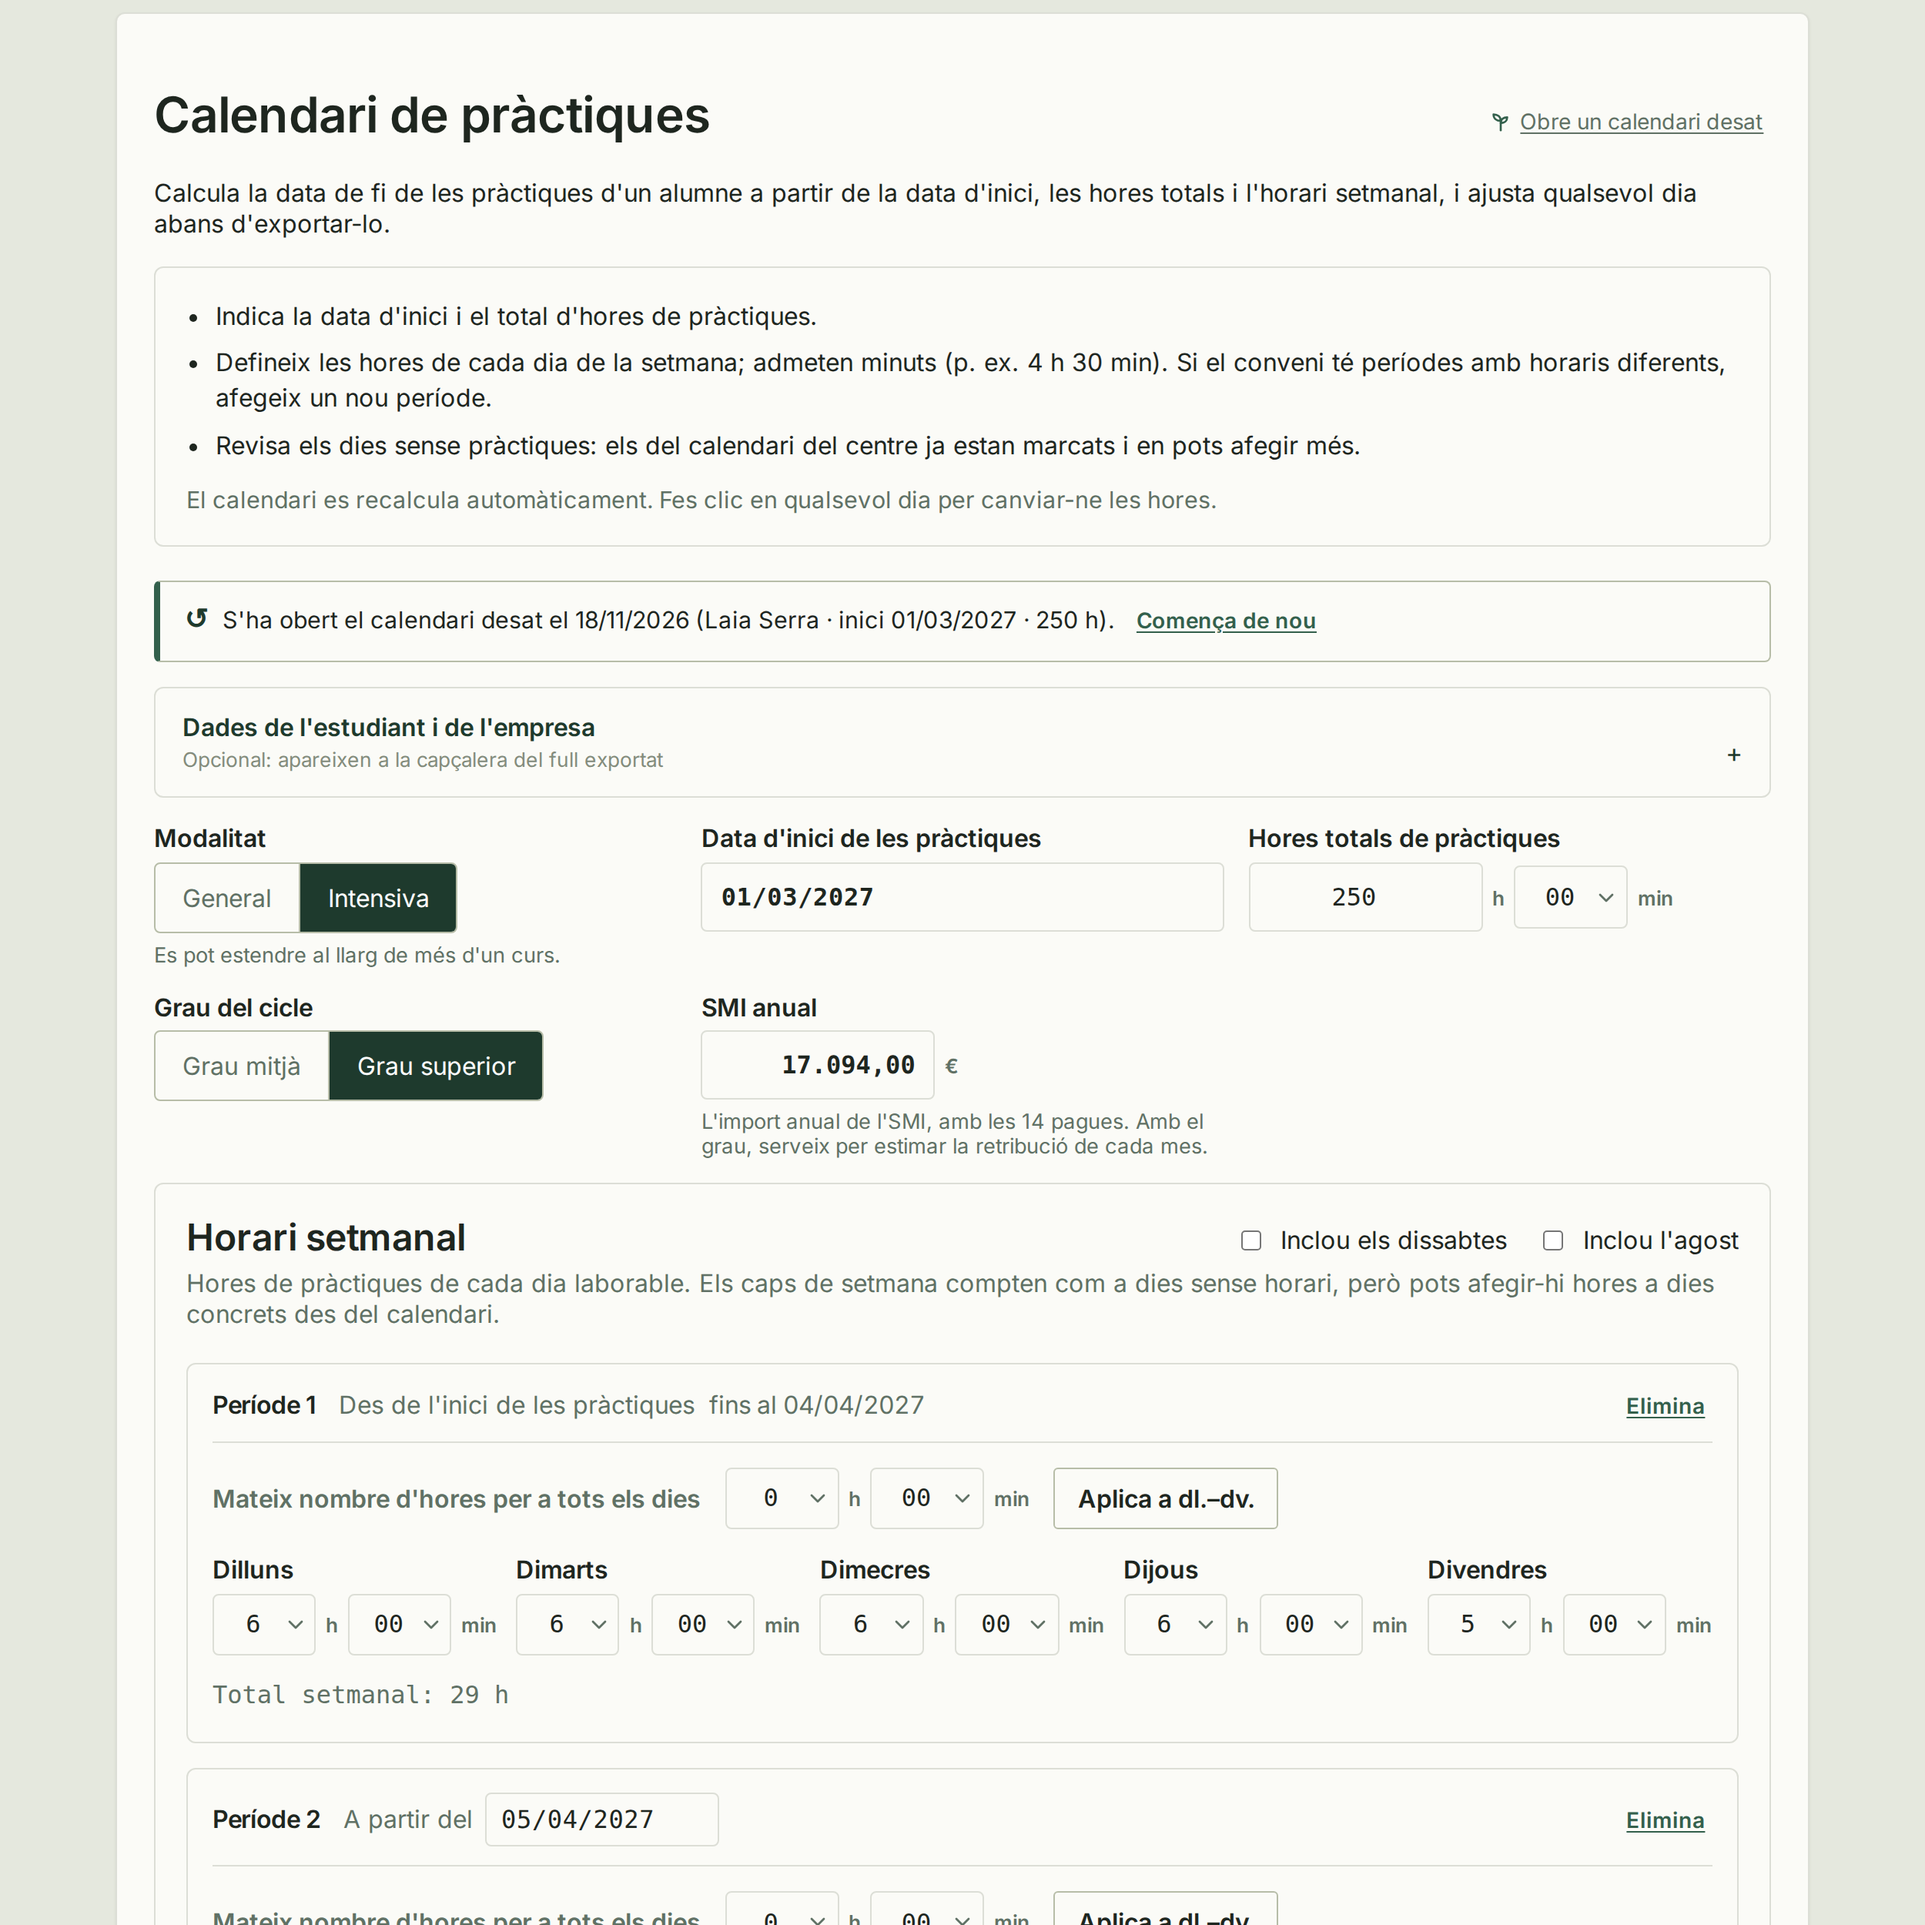
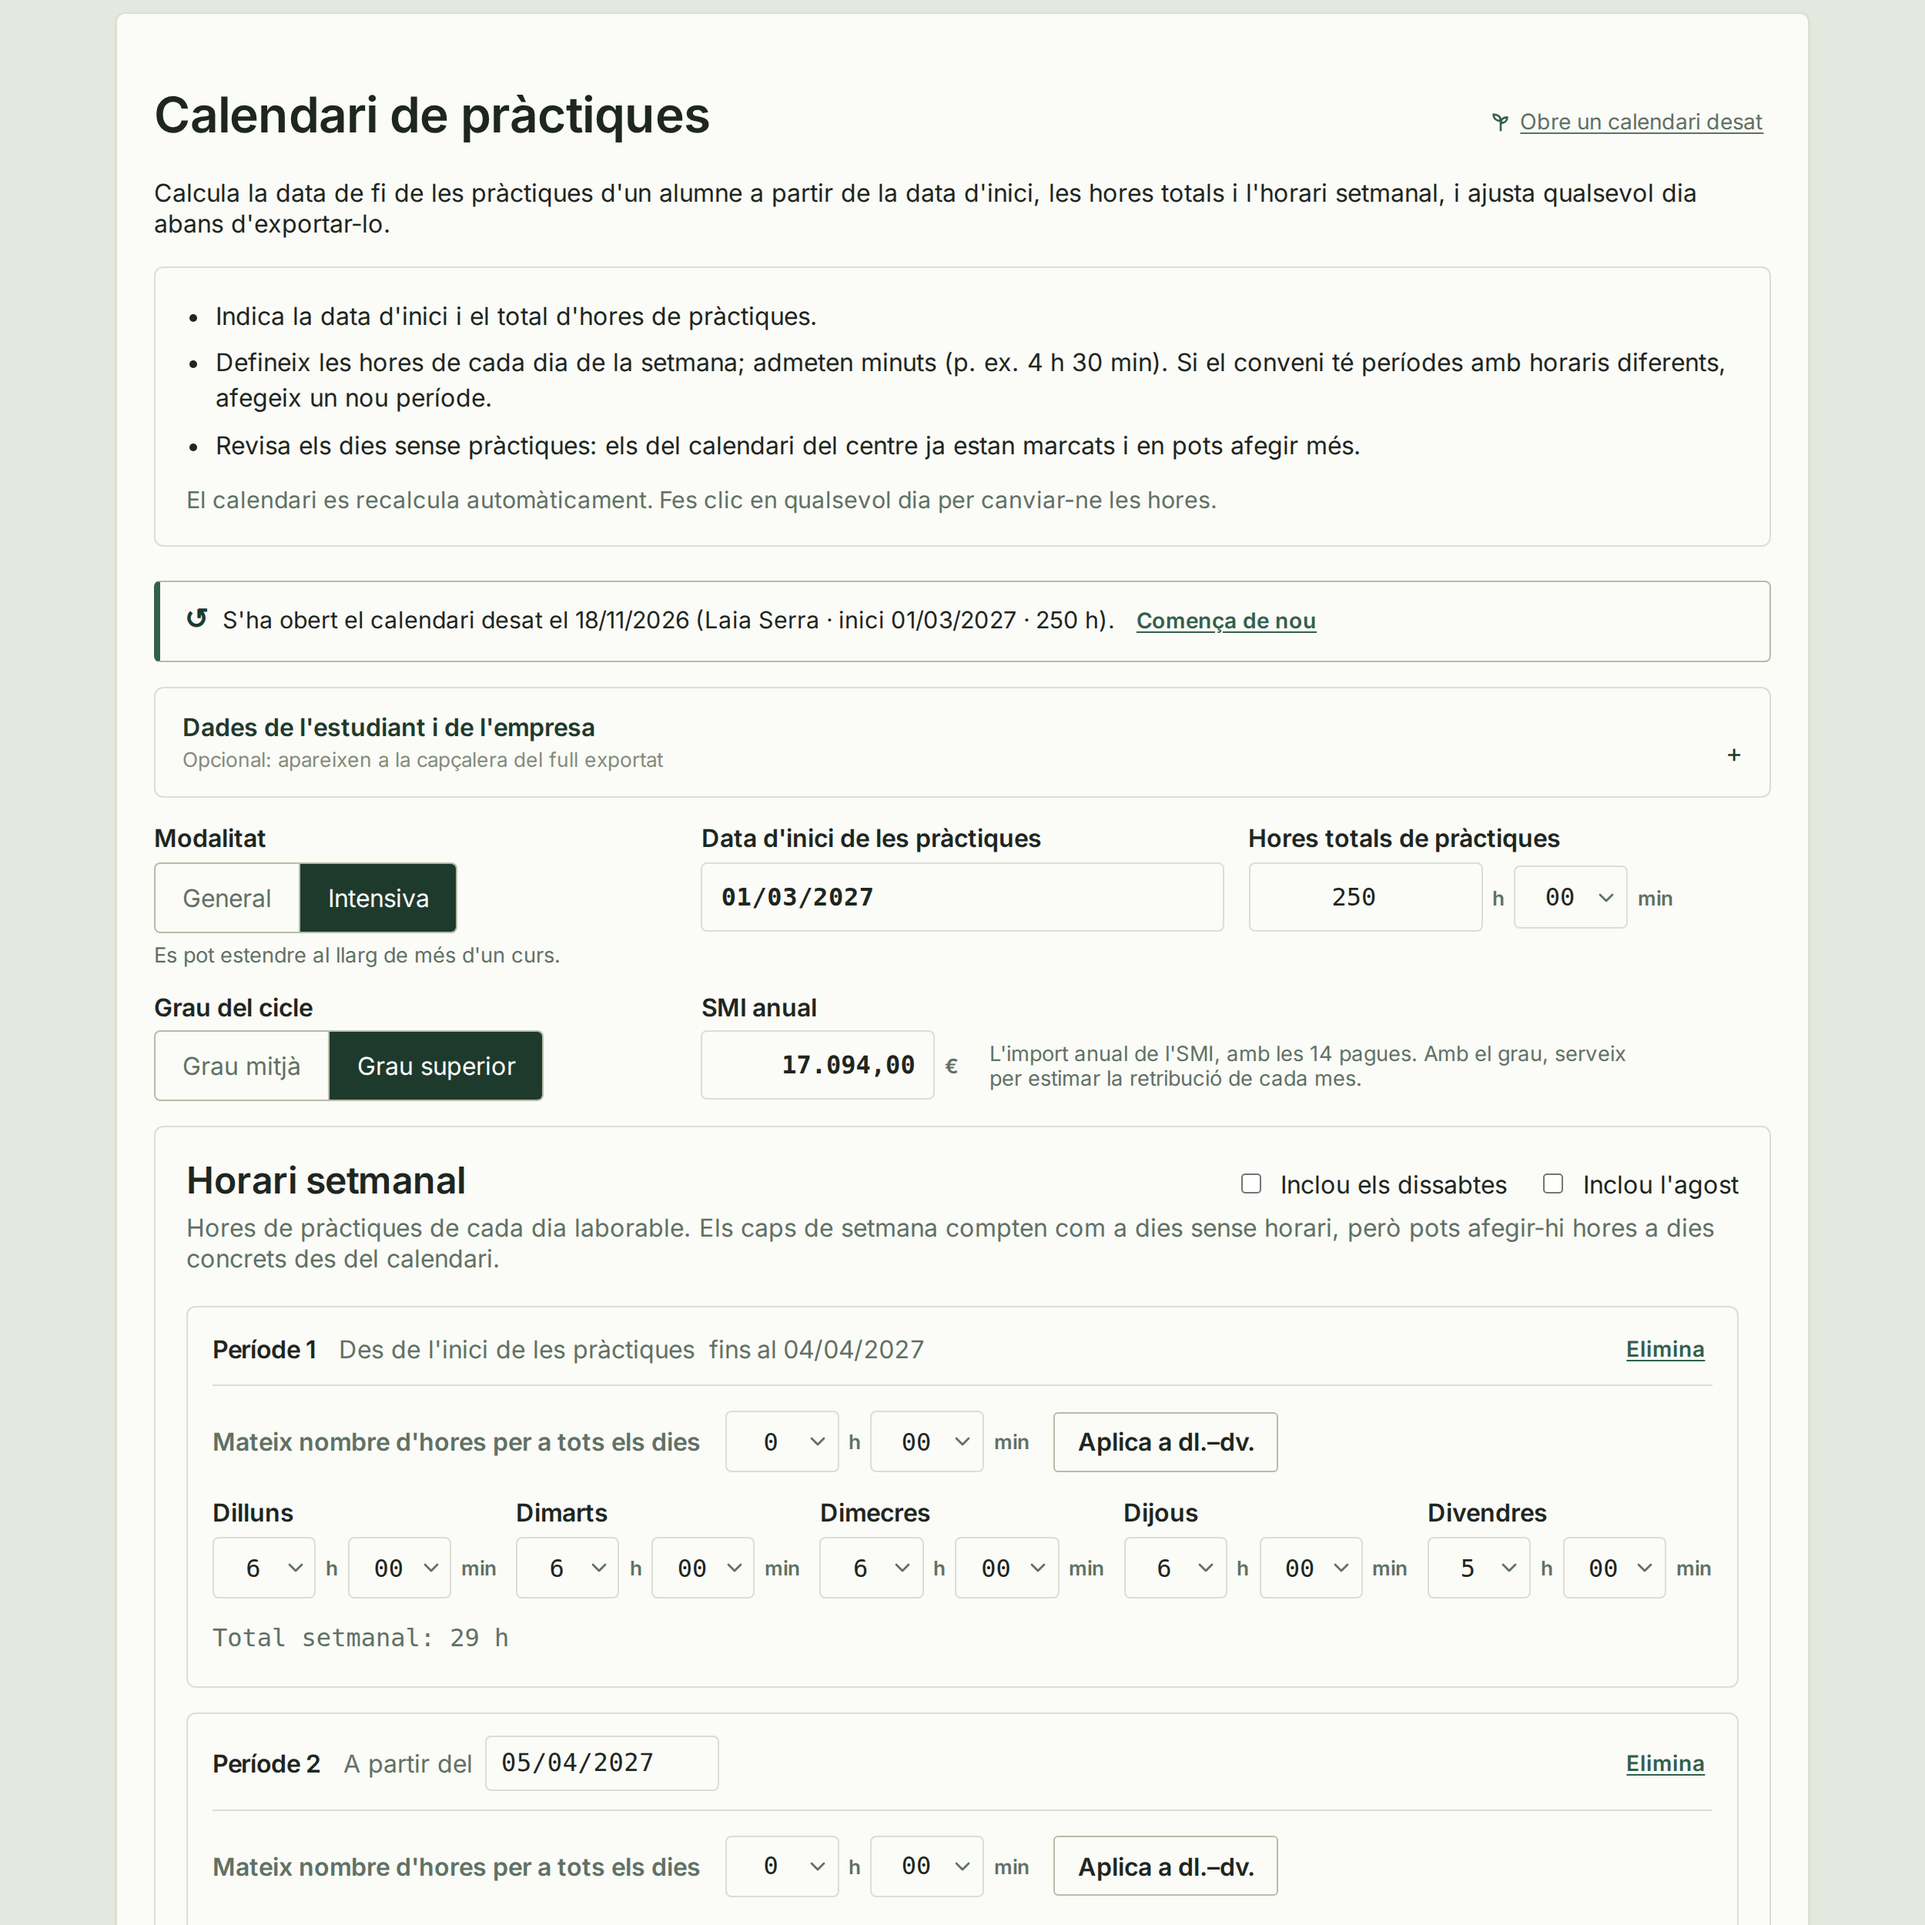
Set the SMI hint beside its box
Following the mockup, the hint now sits on the same line as the SMI box,
right of the euro sign and centred on it, in two short lines; the field
spans two columns of the grid. Below 900 px the grid is one column and
the hint drops under the box when there is no room beside it. The amount
and its error stay bold, as when they sat inside the label. Stylesheet
version bumped and the README's step 1 screenshot retaken.

diff --git a/app/templates/internship/index.html b/app/templates/internship/index.html
@@ -94,16 +94,16 @@
           {% endfor %}
         </div>
       </div>
-      <div class="field-group">
-        <label>
-          {{ smi_label }}
+      <div class="field-group smi-field">
+        <label class="field-group-label" for="smi">{{ smi_label }}</label>
+        <div class="smi-row">
           <span class="money-field">
             <input id="smi" type="text" inputmode="decimal" maxlength="20" placeholder="P.ex. {{ smi_example }}" autocomplete="off" aria-describedby="smi-hint" />
             <span class="block-time-separator">€</span>
           </span>
-          <span class="error-text" id="smi-error" hidden></span>
-        </label>
-        <span class="field-hint" id="smi-hint">{% if smi_period == "anual" %}L'import anual de l'SMI, amb les 14 pagues.{% else %}L'import d'una de les 14 pagues de l'SMI, sense prorratejar les extres.{% endif %} Amb el grau, serveix per estimar la retribució de cada mes.</span>
+          <span class="field-hint smi-hint" id="smi-hint">{% if smi_period == "anual" %}L'import anual de l'SMI, amb les 14 pagues.{% else %}L'import d'una de les 14 pagues de l'SMI, sense prorratejar les extres.{% endif %} Amb el grau, serveix per estimar la retribució de cada mes.</span>
+        </div>
+        <span class="error-text" id="smi-error" hidden></span>
       </div>
     </div>
 

diff --git a/app/static/css/app.css b/app/static/css/app.css
@@ -1831,6 +1831,29 @@ select.time-select {
   text-align: right;
 }
 
+/* The SMI box with its hint beside it; the hint drops below when there is no room. */
+.smi-field {
+  grid-column: span 2;
+}
+
+.smi-row {
+  display: flex;
+  flex-wrap: wrap;
+  align-items: center;
+  gap: 0.5rem 1.25rem;
+}
+
+.smi-hint {
+  flex: 1 1 16rem;
+  max-width: 26rem;
+}
+
+/* Bold like the fields that sit inside their label. */
+.smi-field input,
+.smi-field .error-text {
+  font-weight: 600;
+}
+
 .smi-form {
   display: flex;
   flex-wrap: wrap;
@@ -2736,6 +2759,10 @@ kbd {
 @media (max-width: 900px) {
   .internship-basics {
     grid-template-columns: 1fr;
+  }
+
+  .smi-field {
+    grid-column: auto;
   }
 
   .non-working-layout,

diff --git a/app/templates/base.html b/app/templates/base.html
@@ -5,7 +5,7 @@
     <meta name="viewport" content="width=device-width, initial-scale=1.0" />
     <title>{{ (title or app_name) ~ (" | " ~ school_name if school_name else "") }}</title>
     <link rel="icon" type="image/svg+xml" href="{{ url_for('static', path='/img/tempo-favicon.svg') }}?v=20261012d" />
-    <link rel="stylesheet" href="{{ url_for('static', path='/css/app.css') }}?v=20261118a" />
+    <link rel="stylesheet" href="{{ url_for('static', path='/css/app.css') }}?v=20261118b" />
     <script src="{{ url_for('static', path='/js/datepicker.js') }}?v=20261016a" defer></script>
   </head>
   <body{% block body_attrs %}{% endblock %}>
